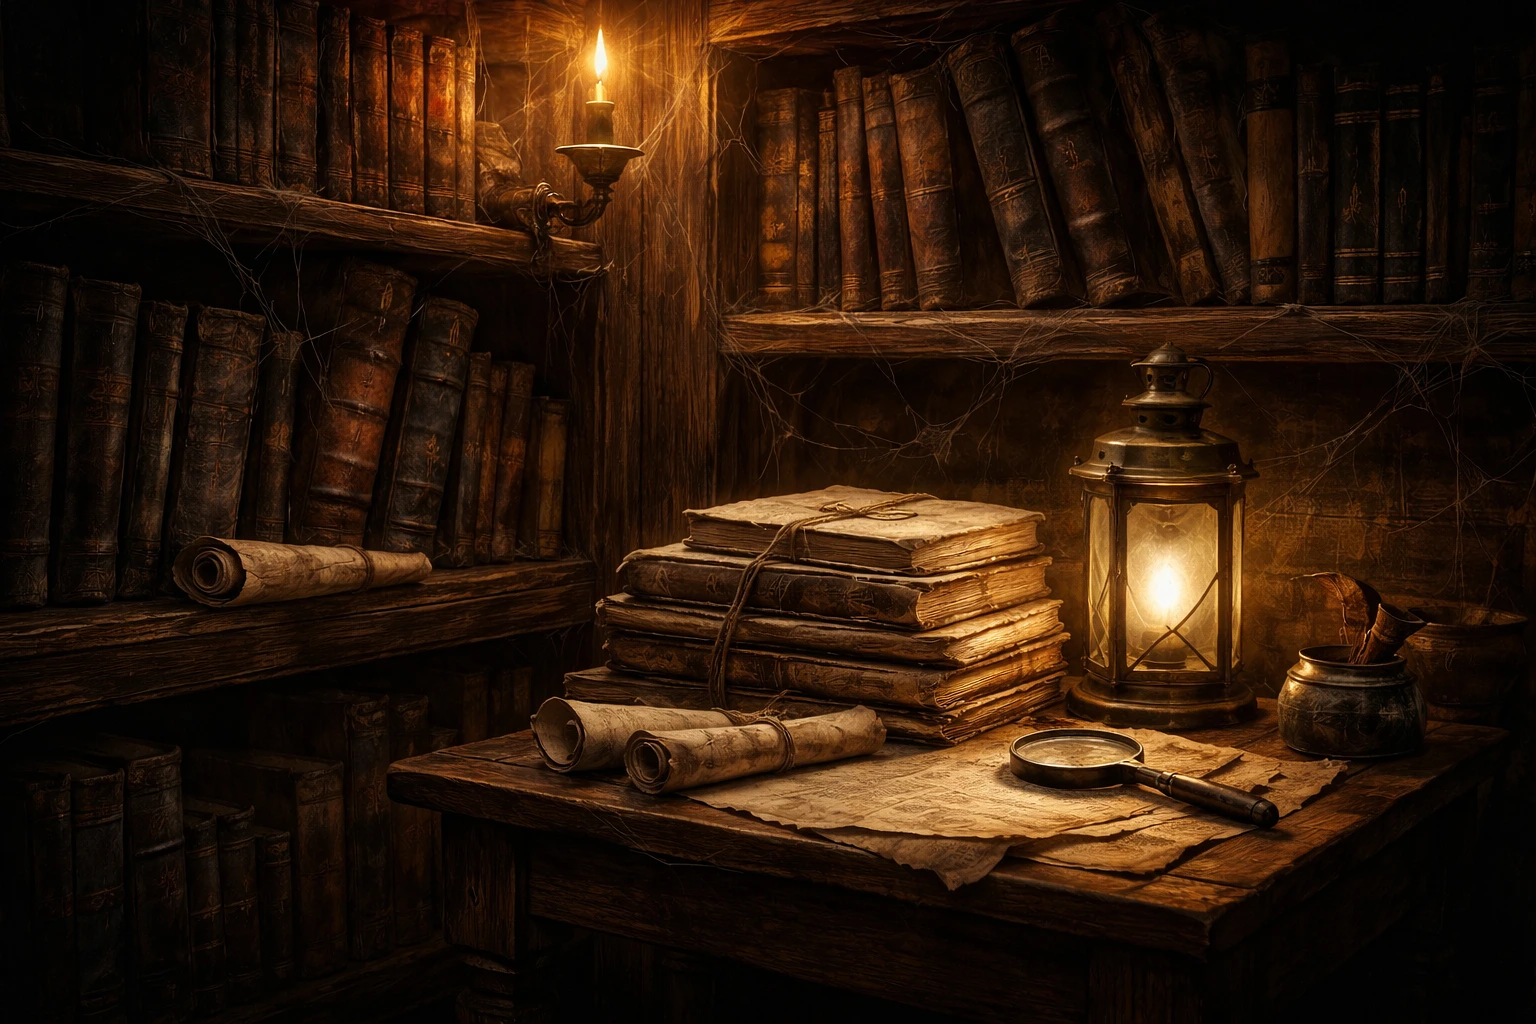
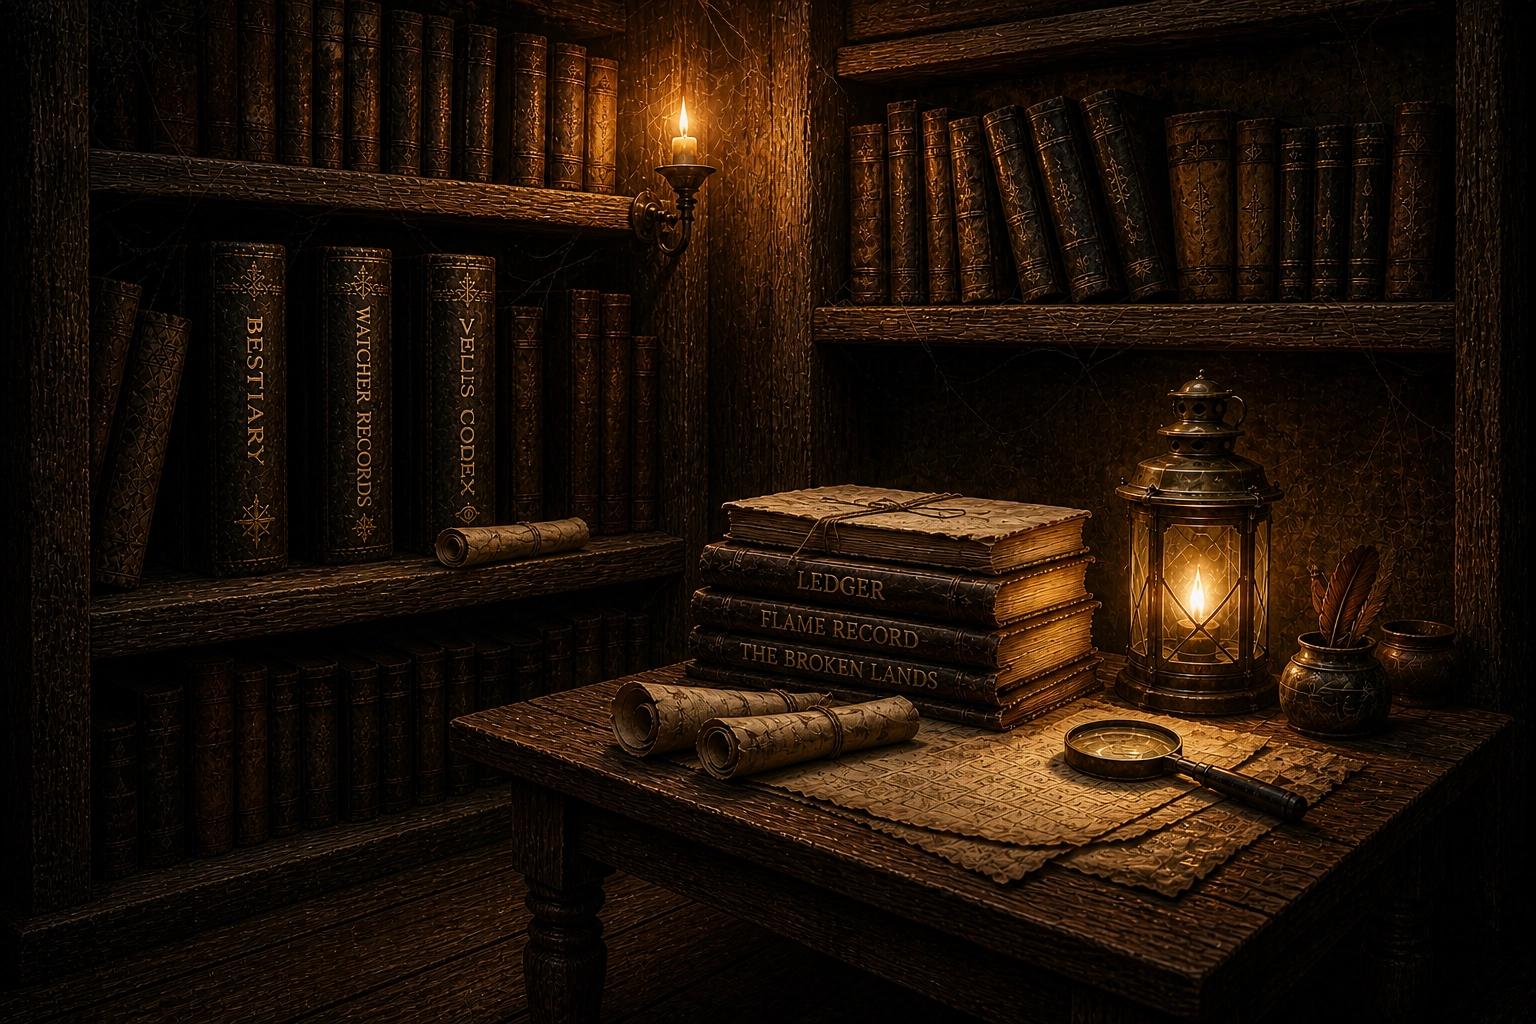
invisible hotspots

diff --git a/velis-atmosphere.css b/velis-atmosphere.css
@@ -700,8 +700,12 @@ filter: brightness(0.75) contrast(1.05);
 /* Shelf hotspot */
 .velis-shelf-view .velis-shelf-canvas .velis-shelf-hotspot {
   position: absolute;
-  transform: translate(-50%, -50%);
   cursor: pointer;
+}
+
+.velis-shelf-hotspot {
+  width: 90px;   /* base size */
+  height: 220px; /* spine height */
 }
 
 .velis-shelf-hotspot span {
@@ -891,60 +895,92 @@ filter: brightness(0.75) contrast(1.05);
 .velis-shelf-hotspot {
   position: absolute;
   cursor: pointer;
+  background: rgba(255, 0, 0, 0.15);
+  outline: 2px solid red;
 }
 
 /* HOTSPOT POSITIONS — tweak these */
-/*Left Manuscript*/
+/*Prophecy Scroll*/
 .hotspot-1 {
-  left: 20%;
-  top: 58%;
+  left: 33%;
+  top: 53.5%;
+   width: 145px;
+  height: 38px;
+  transform: translate(-50%, -50%) rotate(-5deg);
 }
 /*Ledger*/
 .hotspot-2 {
-  left: 50%;
-  top: 53%;
+  left: 55%;
+  top: 59%;
+   width: 315px;
+  height: 35px;
+  transform: translate(-50%, -50%) rotate(8deg);
 }
-/*Map*/
+/*Map Scroll*/
 .hotspot-3 {
   position: absolute;
-  left: 65%;
-  top: 85%;
+  left: 72.5%;
+  top: 77.5%;
+   width: 55px;
+  height: 25px;
+  transform: translate(-50%, -50%) rotate(5deg);
 }
 /*Middle Scroll*/
 .hotspot-4 {
   position: absolute;
-  left: 50%;
-  top: 80%;
+  left: 52%;
+  top: 77%;
+   width: 200px;
+  height: 25px;
+  transform: translate(-50%, -50%) rotate(-7deg);
 }
 /*Bestiary*/
 .hotspot-5 {
-  left: 23.5%;
-  top: 34%;
+  left: 16%;
+  top: 36%;
+   width: 75px;
+  height: 350px;
+  transform: translate(-50%, -50%) rotate(0deg);
 }
 /*Watcher Notes*/
 .hotspot-6 {
-  left: 28%;
-  top: 38%;
+  left: 23%;
+  top: 36%;
+   width: 75px;
+  height: 330px;
+  transform: translate(-50%, -50%) rotate(0deg);
 }
 /*Flame Record*/
 .hotspot-7 {
-  left: 50%;
+  left: 55%;
   top: 65%;
+    width: 315px;
+  height: 35px;
+  transform: translate(-50%, -50%) rotate(8deg);
 }
 /*Velis Codex*/
 .hotspot-8 {
-  left: 50%;
-  top: 60%;
+  left: 30%;
+  top: 34%;
+   width: 75px;
+  height: 295px;
+  transform: translate(-50%, -50%) rotate(0deg);
 }
 /*Sealed Scroll*/
 .hotspot-9 {
-  left: 41%;
-  top: 75.5%;
+  left: 47%;
+  top: 72.5%;
+   width: 150px;
+  height: 10px;
+  transform: translate(-50%, -50%) rotate(3deg);
 }
 /*The Broken Lands*/
 .hotspot-10 {
-  left: 50%;
-  top: 70%;
+  left: 54%;
+  top: 69%;
+ width: 315px;
+  height: 35px;
+  transform: translate(-50%, -50%) rotate(8deg);
 }
 
 
@@ -1123,7 +1159,7 @@ filter: brightness(0.75) contrast(1.05);
 
   /* The Broken Lands */
   .hotspot-10 {
-    left: 50%;
+    left: 53%;
     top: 65%;
   }
 
@@ -1319,5 +1355,36 @@ filter: brightness(0.75) contrast(1.05);
     right: 8px;
     font-size: 18px;
     padding: 4px 7px;
-  }
+  } 
+}
+
+
+/* =========================
+   Temp visibility fix for hotspots
+   ========================= */
+.velis-shelf-hotspot span {
+  width: 100%;
+  height: 100%;
+
+  display: flex;
+  align-items: center;
+  justify-content: center;
+
+  font-size: 0.1em;   /* key line */
+  text-align: center;
+}
+.velis-shelf-hotspot {
+  font-size: 100px; /* acts like a scaling base */
+}
+.velis-shelf-hotspot {
+  background: rgba(255, 0, 0, 0.15);
+  outline: 2px solid red;
+}
+.velis-shelf-hotspot {
+  background: transparent;
+  outline: none;
+}
+
+.velis-shelf-hotspot span {
+  display: none;
 }
